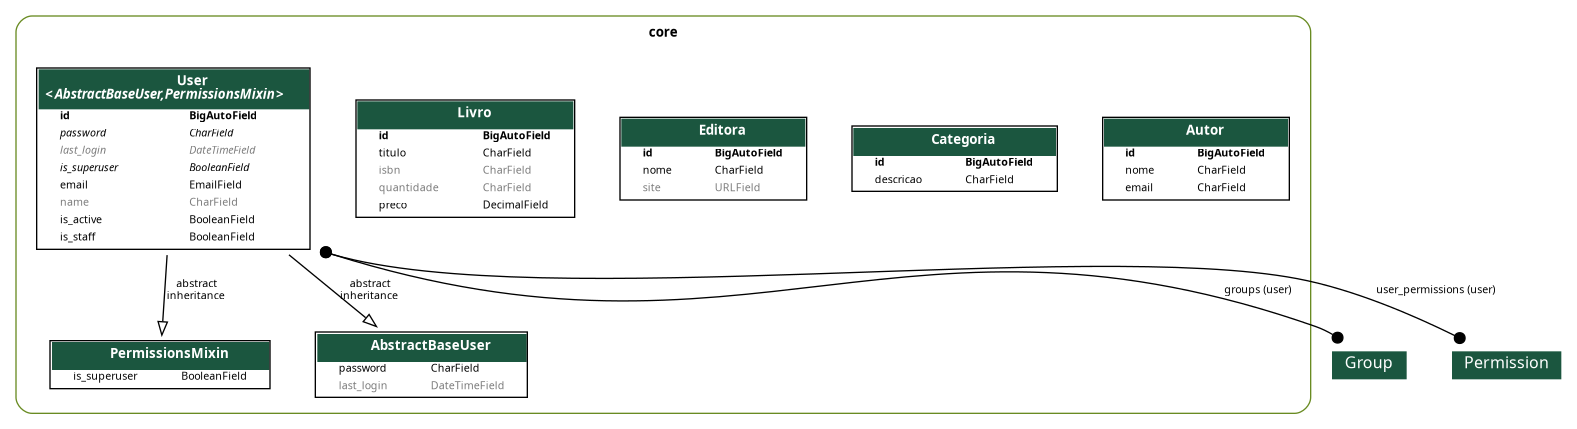
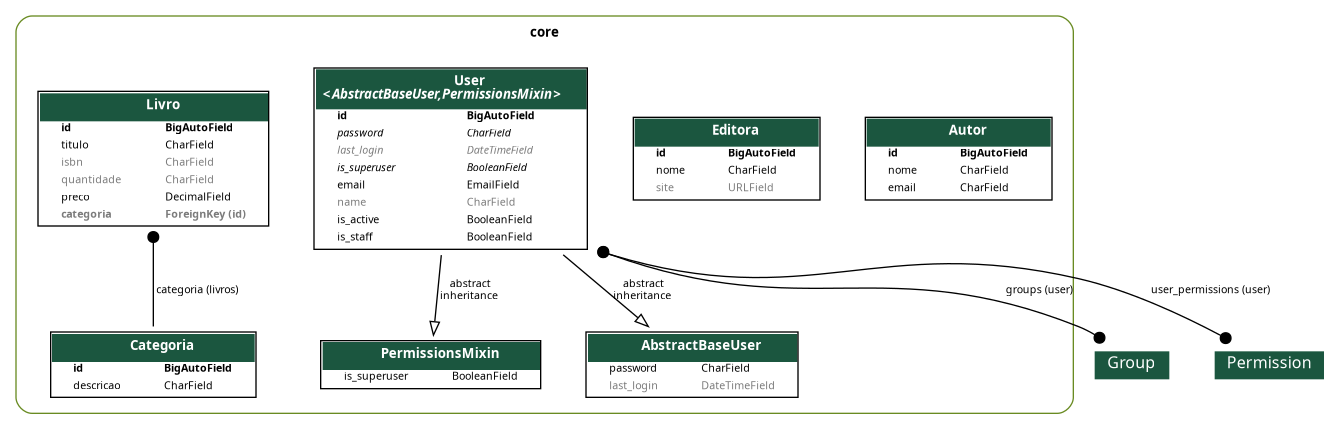
FEAT: Criando chave estrangeira para Categoria

diff --git a/core/migrations/0007_livro_categoria.py b/core/migrations/0007_livro_categoria.py
@@ -1,0 +1,19 @@
+# Generated by Django 5.2.12 on 2026-03-17 12:22
+
+import django.db.models.deletion
+from django.db import migrations, models
+
+
+class Migration(migrations.Migration):
+
+    dependencies = [
+        ('core', '0006_autor_categoria_editora_livro'),
+    ]
+
+    operations = [
+        migrations.AddField(
+            model_name='livro',
+            name='categoria',
+            field=models.ForeignKey(blank=True, null=True, on_delete=django.db.models.deletion.PROTECT, related_name='livros', to='core.categoria'),
+        ),
+    ]

diff --git a/core/models/livro.py b/core/models/livro.py
@@ -1,4 +1,6 @@
 from django.db import models
+from .categoria import Categoria
+
 
 
 class Livro(models.Model):
@@ -6,6 +8,7 @@ class Livro(models.Model):
     isbn = models.CharField(max_length=32, null=True, blank=True)
     quantidade = models.CharField(default=0, null=True, blank=True)
     preco = models.DecimalField(max_digits=7, decimal_places=2, default=0)
+    categoria = models.ForeignKey(Categoria, on_delete=models.PROTECT, related_name='livros', null=True, blank=True)
 
     def __str__(self):
         return f'({self.id}) ({self.titulo})'